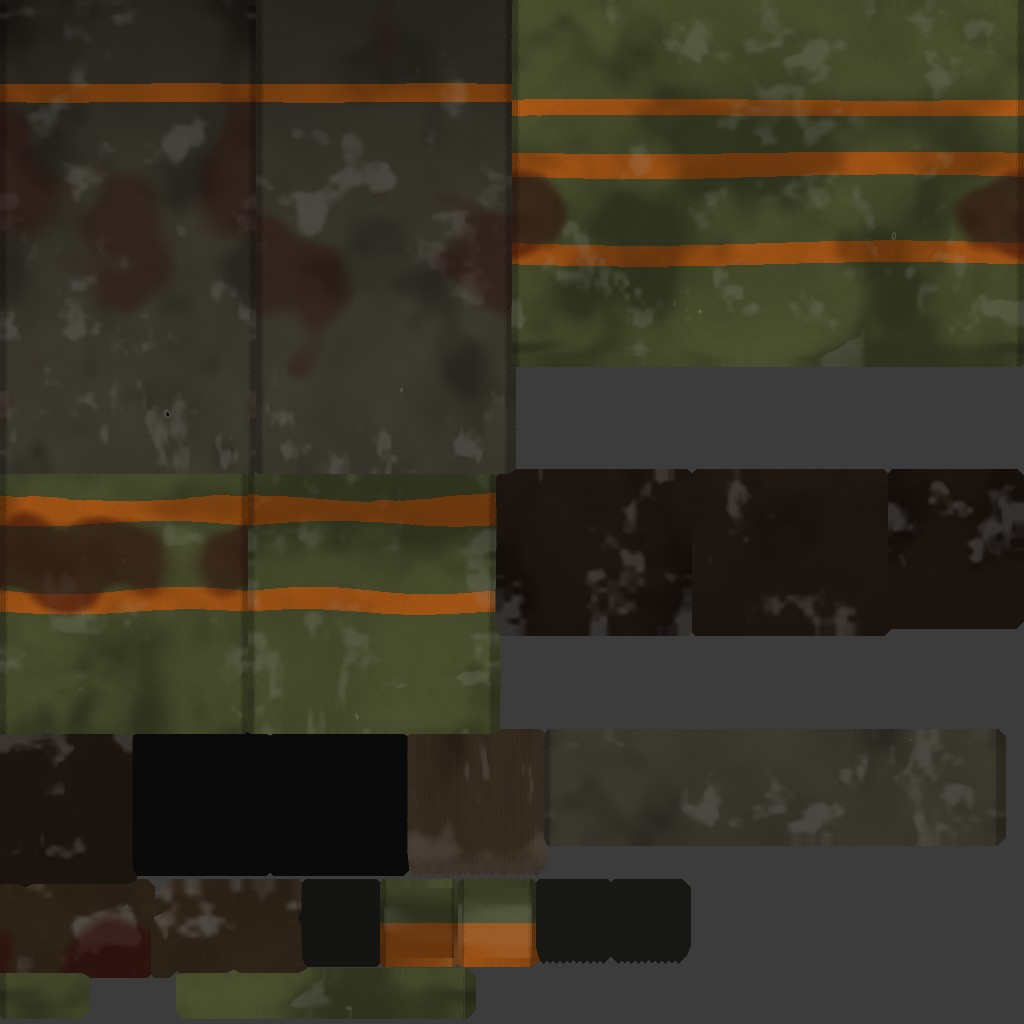
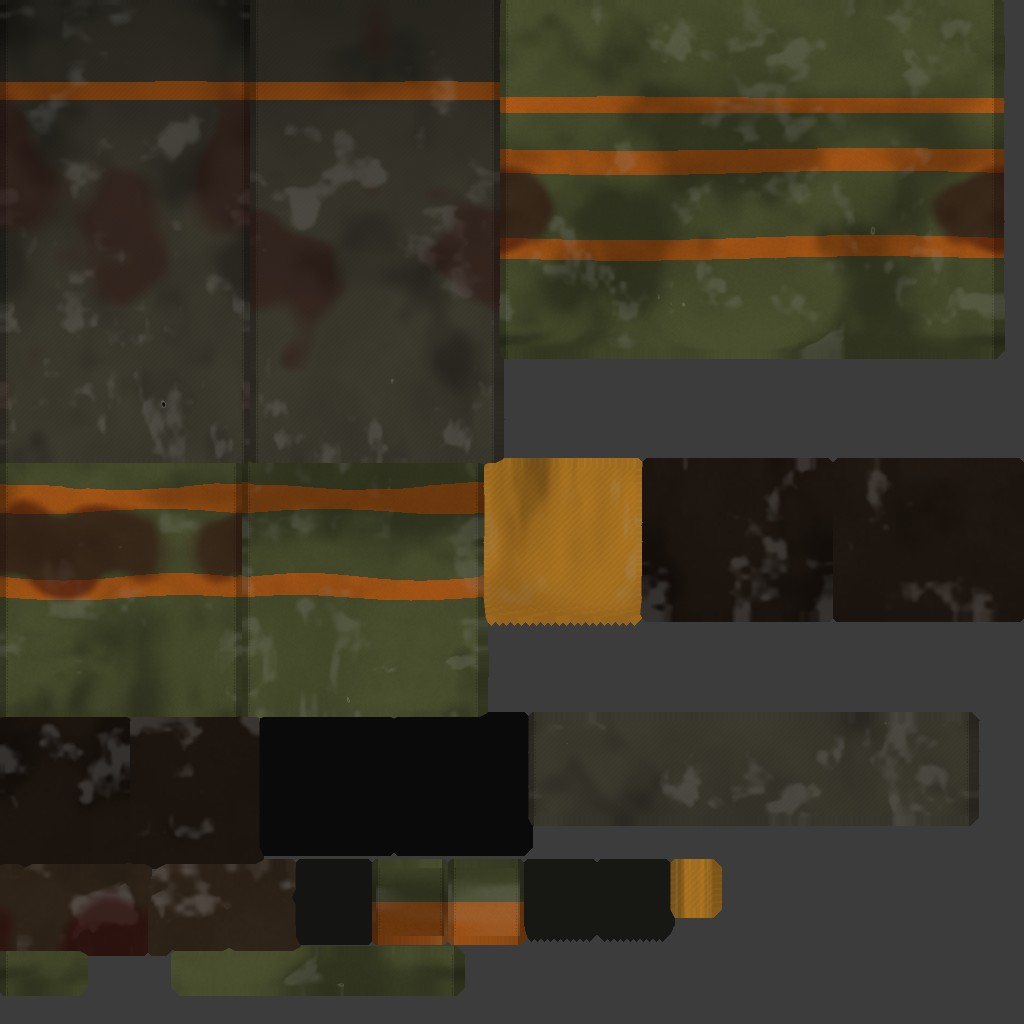
M1.8 review fixes S2-S5: upload infected maps during menu warm-up, no anisotropy on character maps, dimmer eyes, WORKER hard hat, bulkier GUARD vest (maps rebaked)
Claude-Session: https://claude.ai/code/session_015XtAVv4QeFPGqkuJvGPpYD

diff --git a/prototype-3d/src/render/enemies/hollow-model.js b/prototype-3d/src/render/enemies/hollow-model.js
@@ -379,7 +379,8 @@ const OUTFITS = {
     boots: garment([0.13, 0.095, 0.07], { weave: 'leather', dirt: 0.6, blood: 0, wear: 0.4, tears: 0, seams: false }),
     gloves: garment([0.17, 0.13, 0.09], { weave: 'leather', dirt: 0.5, blood: 0.6, bloodT: 0.55, wear: 0.5, tears: 0.2, seams: false }),
     pads: [0.09, 0.09, 0.08], tear: 1, shoulder: 0.012, hand: 1.18,
-    cap: { theta: 1.32, scale: 1.12, tall: 0.9, dy: 0.0, brim: false, lumpy: 0.004, color: garment([0.19, 0.15, 0.11], { weave: 'knit', dirt: 0.6, blood: 0.2, tears: 0, seams: false }) },
+    // M1.8: hard hat instead of the beanie — a domed shell with a full brim (silhouette read at 12 m, not only colour)
+    cap: { theta: 1.45, scale: 1.2, tall: 1.0, dy: 0.012, brim: true, fullBrim: true, lumpy: 0.001, color: garment([0.62, 0.42, 0.12], { weave: 'rubber', dirt: 0.55, blood: 0.15, tears: 0, seams: false, wear: 0.3 }) },
   },
 };
 function buildOutfit(id, rags, { torsoRings, armRings, legRings, hole, W, hc, HR }) {
@@ -426,7 +427,7 @@ function buildOutfit(id, rags, { torsoRings, armRings, legRings, hole, W, hc, HR
     rags.add(sole, { weights: W(['foot' + s, 1]), color: plain([0.04, 0.04, 0.04]) });
   }
   if (O.vest) { // plate carrier: thick shell over the chest + shoulder straps + magazine pouches
-    const V = torsoRings.slice(6, 11).map(R => ({ c: [R.c[0], R.c[1], R.c[2]], ru: R.ru * 1.04 + 0.03, rv: R.rv * 1.0 + 0.036, w: R.w }));
+    const V = torsoRings.slice(6, 11).map(R => ({ c: [R.c[0], R.c[1], R.c[2]], ru: R.ru * 1.06 + 0.038, rv: R.rv * 1.0 + 0.046, w: R.w })); // M1.8: bulkier plate carrier
     rags.loft(V, { seg: 22, color: O.vest, uvRep: [6, 6], capStart: true, capEnd: true, displace: noise(0.006, 7), skip: (r, s) => (r === 3 && (s >= 4 && s <= 6 || s >= 16 && s <= 18) ? 1 : 0) });
     for (const sx of [-1, 1]) {
       for (const [y, h] of [[1.25, 0.1]]) {
@@ -473,7 +474,11 @@ function buildOutfit(id, rags, { torsoRings, armRings, legRings, hole, W, hc, HR
       P.setXYZ(i, hc[0] + x * HR[0] * O.cap.scale, hc[1] + O.cap.dy + y * HR[1] * O.cap.scale * O.cap.tall, hc[2] - 0.004 + z * HR[2] * O.cap.scale * back);
     }
     rags.add(g, { weights: W(['head', 1]), color: O.cap.color, displace: noise(O.cap.lumpy, 26) });
-    if (O.cap.brim) { // patrol-cap visor
+    if (O.cap.fullBrim) { // hard-hat brim all around (wider at the front)
+      const b = new THREE.CylinderGeometry(1, 1, 0.006, 24, 1, true); b.scale(HR[0] * O.cap.scale * 1.25, 1, HR[2] * O.cap.scale * 1.3);
+      b.translate(hc[0], hc[1] + O.cap.dy + HR[1] * 0.12, hc[2] + 0.012);
+      rags.add(b, { weights: W(['head', 1]), color: O.cap.color });
+    } else if (O.cap.brim) { // patrol-cap visor
       const b = new THREE.CylinderGeometry(1, 1, 0.006, 16, 1, false, -0.9, 1.8); b.scale(0.07, 1, 0.06);
       b.translate(hc[0], hc[1] + O.cap.dy + HR[1] * 0.3, hc[2] + HR[2] * 0.86);
       rags.add(b, { weights: W(['head', 1]), color: O.cap.color });
@@ -496,7 +501,7 @@ function getCommon() {
   const mats = {
     skin: new THREE.MeshStandardMaterial({ vertexColors: true, roughness: 0.74, metalness: 0.0, normalMap: maps.skin, normalScale: new THREE.Vector2(0.75, 0.75) }),
     rags: new THREE.MeshStandardMaterial({ vertexColors: true, roughness: 0.96, metalness: 0.0, side: THREE.DoubleSide, normalMap: maps.cloth, normalScale: new THREE.Vector2(0.5, 0.5) }),
-    eyes: new THREE.MeshStandardMaterial({ vertexColors: true, color: 0xffffff, emissive: 0xff2a14, emissiveIntensity: 0.05, roughness: 0.22 }), // wet eyeballs / teeth / gums, faint red glow
+    eyes: new THREE.MeshStandardMaterial({ vertexColors: true, color: 0xffffff, emissive: 0xff2a14, emissiveIntensity: 0.16, roughness: 0.22 }), // wet eyeballs / teeth / gums, faint red glow (threat cue at distance)
   };
   common = { maps, mats };
   return common;
@@ -512,6 +517,8 @@ const MAP_URL = new URL('../../../assets/infected/', import.meta.url);
 let loader = null;
 const mapStats = { requested: 0, loaded: 0, failed: 0 };
 export function getMapStats() { return { ...mapStats }; }
+/** Number of loaded maps (cheap, no allocation — polled by the renderer every frame). */
+export function mapsLoaded() { return mapStats.loaded; }
 function patchPackedNR(mat) {
   // M1.8 fix (review C1): onBeforeCompile sees the shader BEFORE #include resolution, so the chunk bodies cannot be
   // matched — patch the include directives themselves. Normal Z is rebuilt from XY by three's own packed-normal path
@@ -530,7 +537,7 @@ function bakedMaterial(variant, part, opts) {
   loader = loader || new THREE.TextureLoader();
   const load = (suffix, srgb) => new Promise((res) => {
     mapStats.requested++;
-    loader.load(new URL(`${variant}_${part}_${suffix}.jpg`, MAP_URL).href, (t) => { mapStats.loaded++; t.colorSpace = srgb ? THREE.SRGBColorSpace : THREE.NoColorSpace; t.anisotropy = 1; t.flipY = true; res(t); /* characters are seen face-on: no anisotropy needed */ }, undefined, () => { mapStats.failed++; res(null); });
+    loader.load(new URL(`${variant}_${part}_${suffix}.jpg`, MAP_URL).href, (t) => { mapStats.loaded++; t.colorSpace = srgb ? THREE.SRGBColorSpace : THREE.NoColorSpace; t.anisotropy = 1; t.userData.noAniso = true; t.flipY = true; res(t); /* characters are seen face-on: no anisotropy needed */ }, undefined, () => { mapStats.failed++; res(null); });
   });
   m.userData.ready = Promise.all([load('color', true), load('nr', false)]).then(([c, nr]) => {
     if (!c || !nr) return false;

diff --git a/prototype-3d/src/render/renderer.js b/prototype-3d/src/render/renderer.js
@@ -2,7 +2,7 @@
 // Reads simulation state; never writes it.
 import * as THREE from 'three';
 import { computePixelRatio, getProfile, AutoResolution } from './quality.js';
-import { getMapStats } from './enemies/hollow-model.js';
+import { mapsLoaded } from './enemies/hollow-model.js';
 import { CELL_SIZE as S, EYE_HEIGHT } from '../config.js';
 import { buildLevel } from './level.js';
 import { createViewmodel } from './weapons/viewmodel.js';
@@ -63,6 +63,7 @@ export function createRenderer({ container, world, getSettings, skin }) {
       for (const m of ms) {
         for (const k of ['map', 'bumpMap', 'normalMap', 'emissiveMap']) {
           const t = m[k] || (k === 'bumpMap' && bumps.get(m)); if (!t || t.magFilter === THREE.NearestFilter) continue;
+          if (t.userData.noAniso) { if (t.userData.minFilter0 === undefined) t.userData.minFilter0 = t.minFilter; const mf = getProfile(getSettings().graphicsProfile).trilinear ? THREE.LinearMipmapLinearFilter : THREE.LinearMipmapNearestFilter; if (t.minFilter !== mf) { t.minFilter = mf; t.needsUpdate = true; } continue; } // character maps: no anisotropy (seen face-on)
           const want = Math.min(maxA, o.name === 'floor' ? P.floorAnisotropy : P.anisotropy);
           if (t.anisotropy !== want) { t.anisotropy = want; t.needsUpdate = true; }
           // PERFORMANCE: bilinear with the nearest mip level instead of trilinear (measured: most of the extra
@@ -147,7 +148,7 @@ export function createRenderer({ container, world, getSettings, skin }) {
       impacts.update(dt);
       targets.update(w.targets || w.hittables || [], dt, camera.position);
       if (w.enemies) infected.update(w.enemies, w.enemyDt ?? dt, alpha, camera.position);
-      { const k = infected.stats.created * 1000 + getMapStats().loaded; if (k !== texCreated) { texCreated = k; texKey = ''; applyTextureQuality(); } } // new pooled infected / maps just loaded: profile filtering for them too // enemyDt = 0 while paused → animation frozen
+      { const k = infected.stats.created * 1000 + mapsLoaded(); if (k !== texCreated) { texCreated = k; texKey = ''; applyTextureQuality(); } } // new pooled infected / maps just loaded: profile filtering for them too // enemyDt = 0 while paused → animation frozen
       if (w.alarm !== undefined) level.setAlarm(w.alarm);
       level.update(camera.position, dt, w.enemyDt ?? dt);
       renderer.info.reset();

diff --git a/prototype-3d/src/main.js b/prototype-3d/src/main.js
@@ -96,7 +96,11 @@ $('aboutBtn').onclick = () => show('about');
 $('aboutBack').onclick = () => show('menu');
 // M1.7: build the variants' shared geometry one at a time while the player is still in the menu (no stall mid-wave;
 // materials are shared, so no extra shader compile). Stops as soon as play starts — anything left is built lazily.
-{ const todo = [...VARIANT_IDS]; const next = () => { if (!todo.length || state !== 'menu') return; getHollowAssets(todo.shift()); setTimeout(next, 120); }; setTimeout(next, 600); }
+{ const todo = [...VARIANT_IDS]; const next = () => { if (!todo.length || state !== 'menu') return;
+    const A = getHollowAssets(todo.shift());
+    // review S2: upload the baked maps to the GPU while still in the menu (no first-sight hitch mid-wave)
+    for (const m of [A.mats.skin, A.mats.rags]) if (m.userData.ready) m.userData.ready.then(ok => { if (ok) for (const t of [m.map, m.normalMap]) if (t) view.renderer.initTexture(t); });
+    setTimeout(next, 120); }; setTimeout(next, 600); }
 $('aboutVersion').textContent = VERSION;
 $('pauseSettings').onclick = () => { settingsReturn = 'paused'; show('settings'); };
 $('settingsBack').onclick = () => show(settingsReturn);
